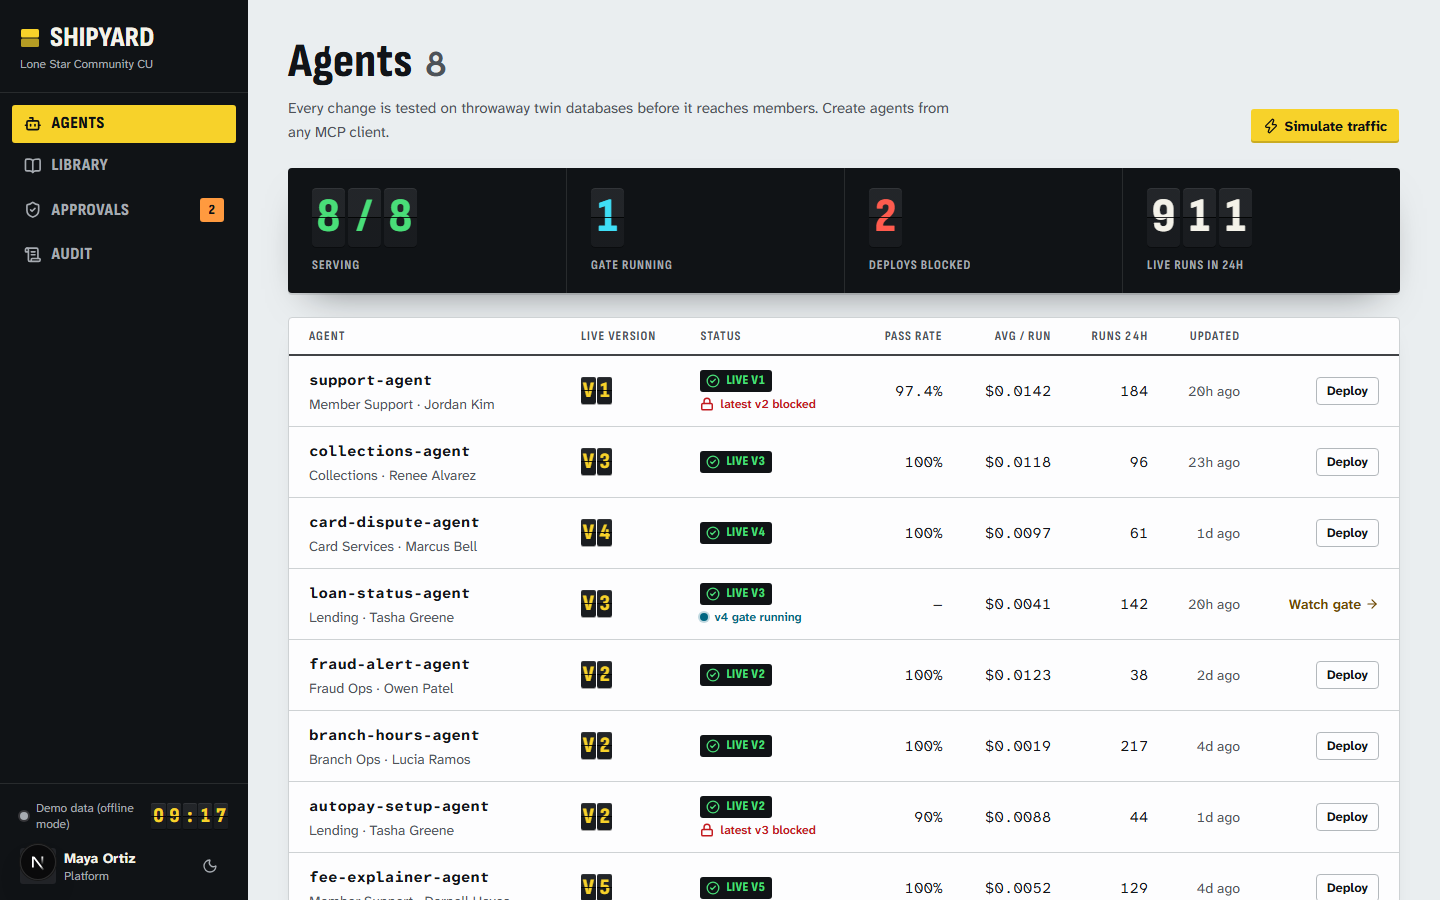
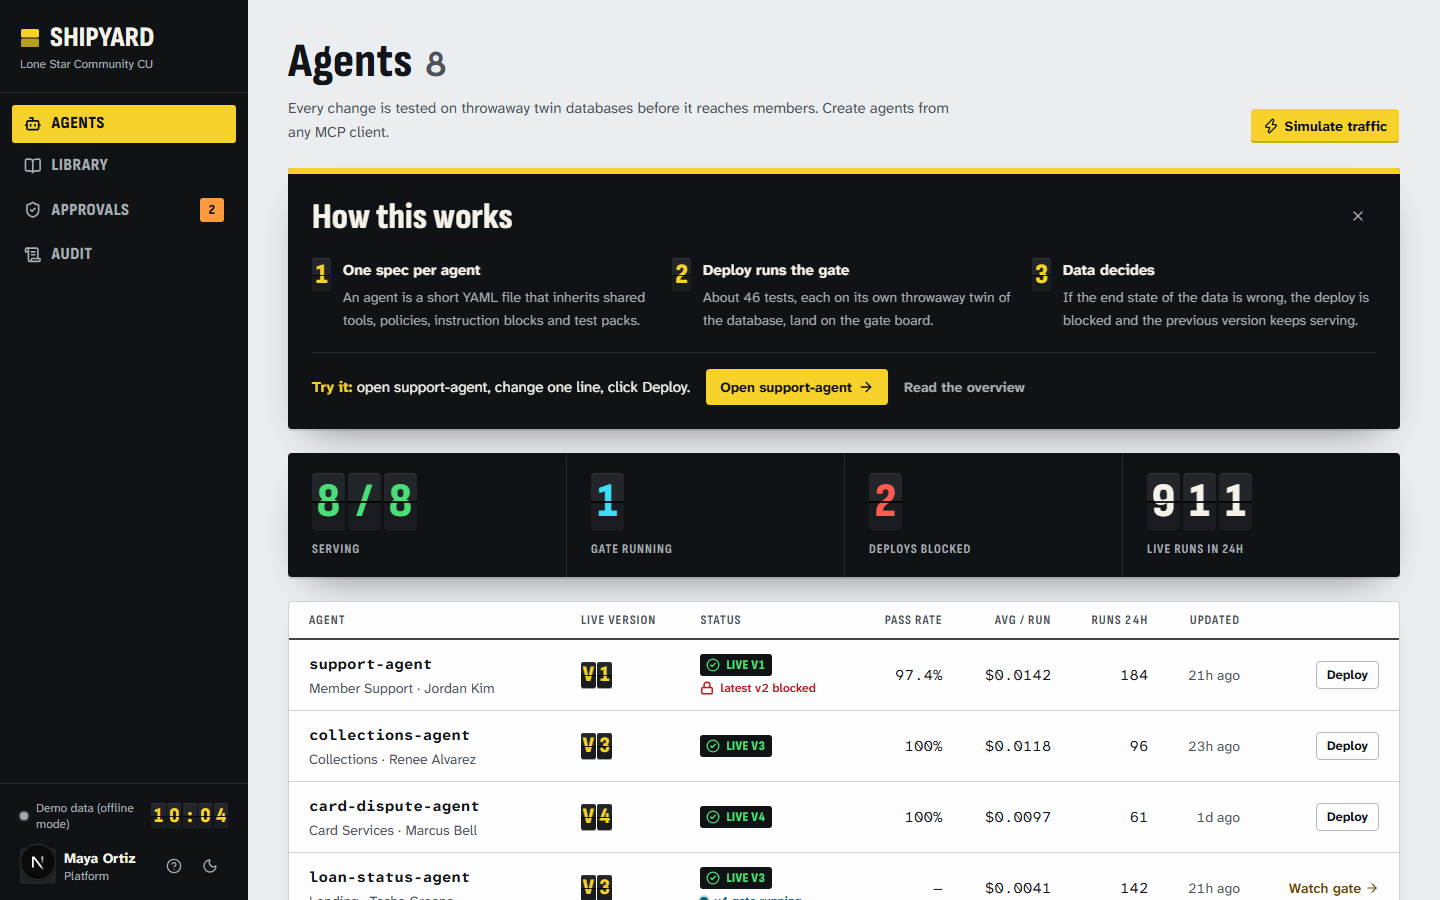
feat: onboarding guide, screen captions, help link; landing layout fix; fresh shots

diff --git a/components/shipyard/shell/shell.tsx b/components/shipyard/shell/shell.tsx
@@ -1,7 +1,7 @@
 'use client';
 import Link from 'next/link';
 import { usePathname } from 'next/navigation';
-import { Bot, BookOpen, ShieldCheck, ScrollText, Moon, Sun } from 'lucide-react';
+import { Bot, BookOpen, CircleHelp, ShieldCheck, ScrollText, Moon, Sun } from 'lucide-react';
 import { useEffect, useState, type ReactNode } from 'react';
 import { cn } from '@/lib/utils';
 import { getApprovals, USE_MOCKS } from '../api';
@@ -73,6 +73,20 @@ function ThemeToggle() {
     >
       {dark ? <Sun className="size-4" /> : <Moon className="size-4" />}
     </button>
+  );
+}
+
+
+function HelpLink() {
+  return (
+    <Link
+      href="/"
+      className="grid size-9 place-items-center rounded-md text-sidebar-muted transition-colors hover:bg-sidebar-accent hover:text-sidebar-foreground focus-visible:ring-2 focus-visible:ring-signal focus-visible:outline-none"
+      aria-label="How Shipyard works"
+      title="How Shipyard works"
+    >
+      <CircleHelp className="size-4" aria-hidden />
+    </Link>
   );
 }
 
@@ -176,7 +190,10 @@ export function Shell({ children }: { children: ReactNode }) {
           </div>
           <div className="flex items-center justify-between gap-2">
             <Persona />
-            <ThemeToggle />
+            <div className="flex items-center">
+              <HelpLink />
+              <ThemeToggle />
+            </div>
           </div>
         </div>
       </aside>
@@ -186,6 +203,7 @@ export function Shell({ children }: { children: ReactNode }) {
           <Wordmark />
           <div className="flex items-center gap-2">
             <ProdStatus apiDown={apiDown} />
+            <HelpLink />
             <ThemeToggle />
           </div>
         </div>

diff --git a/app/page.tsx b/app/page.tsx
@@ -205,7 +205,7 @@ export default function Landing() {
 
         {/* Connect from Claude Code */}
         <section id="connect" className="scroll-mt-16 border-b bg-card">
-          <div className="mx-auto grid max-w-[1240px] gap-8 px-4 py-16 sm:px-6 lg:grid-cols-[1fr_1.2fr] lg:items-center lg:py-20">
+          <div className="mx-auto grid max-w-[1240px] gap-8 px-4 py-16 sm:px-6 lg:grid-cols-[minmax(0,1fr)_minmax(0,1.3fr)] lg:items-center lg:py-20">
             <div className="flex flex-col gap-3">
               <h2 className="board-title text-4xl sm:text-5xl">Connect from Claude Code</h2>
               <p className="text-lg leading-relaxed text-muted-foreground">
@@ -213,7 +213,7 @@ export default function Landing() {
                 lights up for those deploys too.
               </p>
             </div>
-            <div className="flex flex-col gap-3">
+            <div className="flex min-w-0 flex-col gap-3">
               <CopyCommand command={MCP_COMMAND} />
               <p className="text-sm text-muted-foreground">
                 Tools: <span className="font-mono">create_agent</span>, <span className="font-mono">deploy_agent</span>,{' '}

diff --git a/components/shipyard/agents/agent-header.tsx b/components/shipyard/agents/agent-header.tsx
@@ -6,6 +6,7 @@ import type { ValidationResult } from '@/lib/types';
 import { Button } from '@/components/ui/button';
 import { Flap } from '../flap';
 import { StatusPill } from '../status';
+import { Caption } from '../onboarding';
 import { GenerateTestsDialog } from './generate-tests-dialog';
 import type { SaveState } from './spec-editor';
 import { useDeploy } from './use-deploy';
@@ -64,6 +65,7 @@ export function AgentHeader({
           <p className="text-base text-muted-foreground">
             <span className="font-bold text-foreground">{d.team ?? 'No team'}</span> · owner {d.owner ?? 'unassigned'}
           </p>
+          <Caption>Edit the spec, then Deploy: the gate decides if it ships.</Caption>
           {latest && latest.status === 'error' && latest.version !== d.current_version && (
             <p className="text-sm text-warn">
               <Link href={`/agents/${enc}/versions/${latest.version}`} className="font-mono font-semibold hover:underline">

diff --git a/components/shipyard/gate/gate-board.tsx b/components/shipyard/gate/gate-board.tsx
@@ -14,6 +14,7 @@ import { StatusPill } from '../status';
 import { useData, useNow } from '../use-data';
 import { Flap, type FlapTone } from '../flap';
 import { GateCard } from './gate-card';
+import { Caption } from '../onboarding';
 import { CatchSpotlight, RunningPanel, VerdictBanner } from './gate-banner';
 import { boardResults, countResults, groupResults, pickSpotlight, shortName, tagCodes, type GateCounts } from './gate-model';
 
@@ -152,6 +153,7 @@ function Header({ gate, counts, now, onReplay }: { gate: GateResult; counts: Gat
             </Button>
           )}
         </div>
+        <Caption>Each row is one test run on a throwaway copy of the database. The end state of the data decides; the reply check is shown but never decides.</Caption>
       </div>
       <dl className="grid grid-cols-3 gap-x-6 gap-y-1 sm:flex sm:flex-wrap sm:gap-x-8">
         <div className="flex flex-col gap-0.5">

diff --git a/components/shipyard/trace/run-trace.tsx b/components/shipyard/trace/run-trace.tsx
@@ -15,6 +15,7 @@ import { StatusPill } from '../status';
 import { useData, useNow } from '../use-data';
 import { errorText, Timeline } from './timeline';
 import { TwinDiffPanel } from './twin-diff';
+import { Caption } from '../onboarding';
 
 const POLL_MS = 2000;
 /** A run still open after this long was abandoned (function killed); stop polling and say so. */
@@ -254,6 +255,7 @@ export function RunTraceView({ id }: { id: string }) {
           <span className="rounded-[3px] border bg-card px-1.5 py-1 font-mono text-xs">{run.mode}</span>
           <OutcomePill t={t} open={open} result={result} />
         </div>
+        <Caption>Every model call, tool call and the exact rows the agent changed in its twin database.</Caption>
         <p className="font-mono text-xs break-all text-muted-foreground">
           {run.id} · {fmtDateTime(run.started_at)}
         </p>

diff --git a/components/shipyard/agents/agents-list.tsx b/components/shipyard/agents/agents-list.tsx
@@ -13,6 +13,7 @@ import { Flap } from '../flap';
 import { useData, useNow } from '../use-data';
 import { ActivityFeed, SimulateTrafficButton } from '../activity/activity';
 import { useDeploy } from './use-deploy';
+import { HowItWorksGuide } from '../onboarding';
 
 const POLL_MS = 5000;
 /** The agent the stage demo opens (agents/DEMO.md). */
@@ -295,6 +296,7 @@ export function AgentsList() {
         </div>
         <SimulateTrafficButton onDone={() => void refetch()} />
       </header>
+      <HowItWorksGuide />
       {data && data.length > 0 && <CounterStrip agents={data} />}
       {data && <StaleNotice error={error} onRetry={refetch} />}
       <div className="grid gap-6 2xl:grid-cols-[minmax(0,1fr)_380px] 2xl:items-start">
